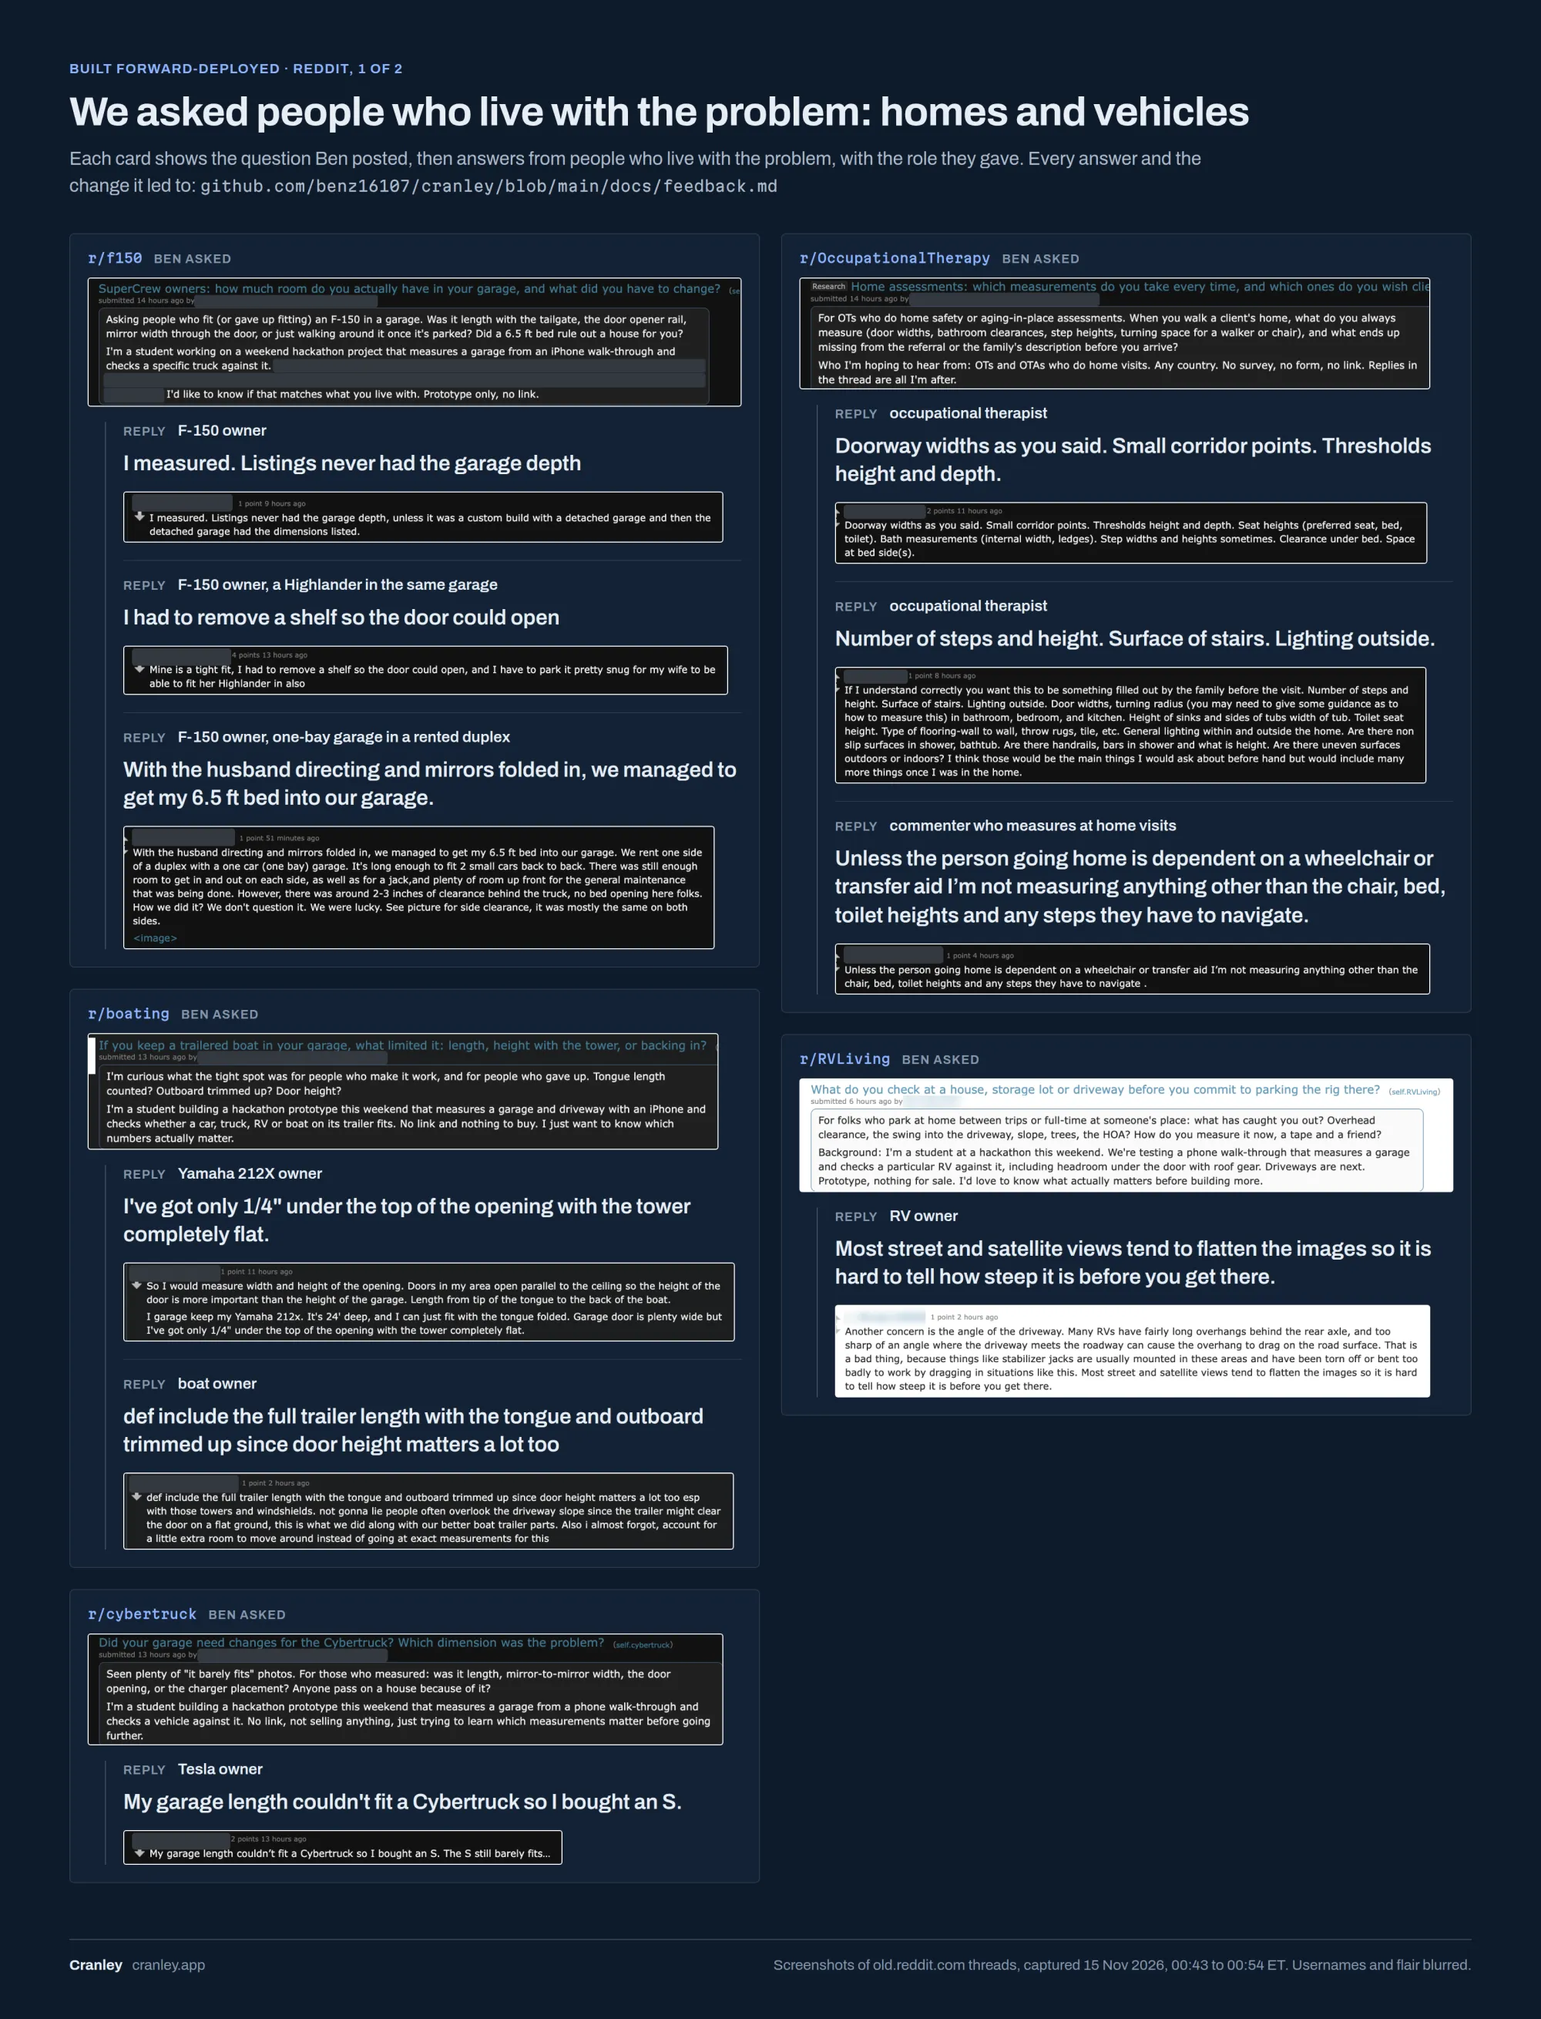
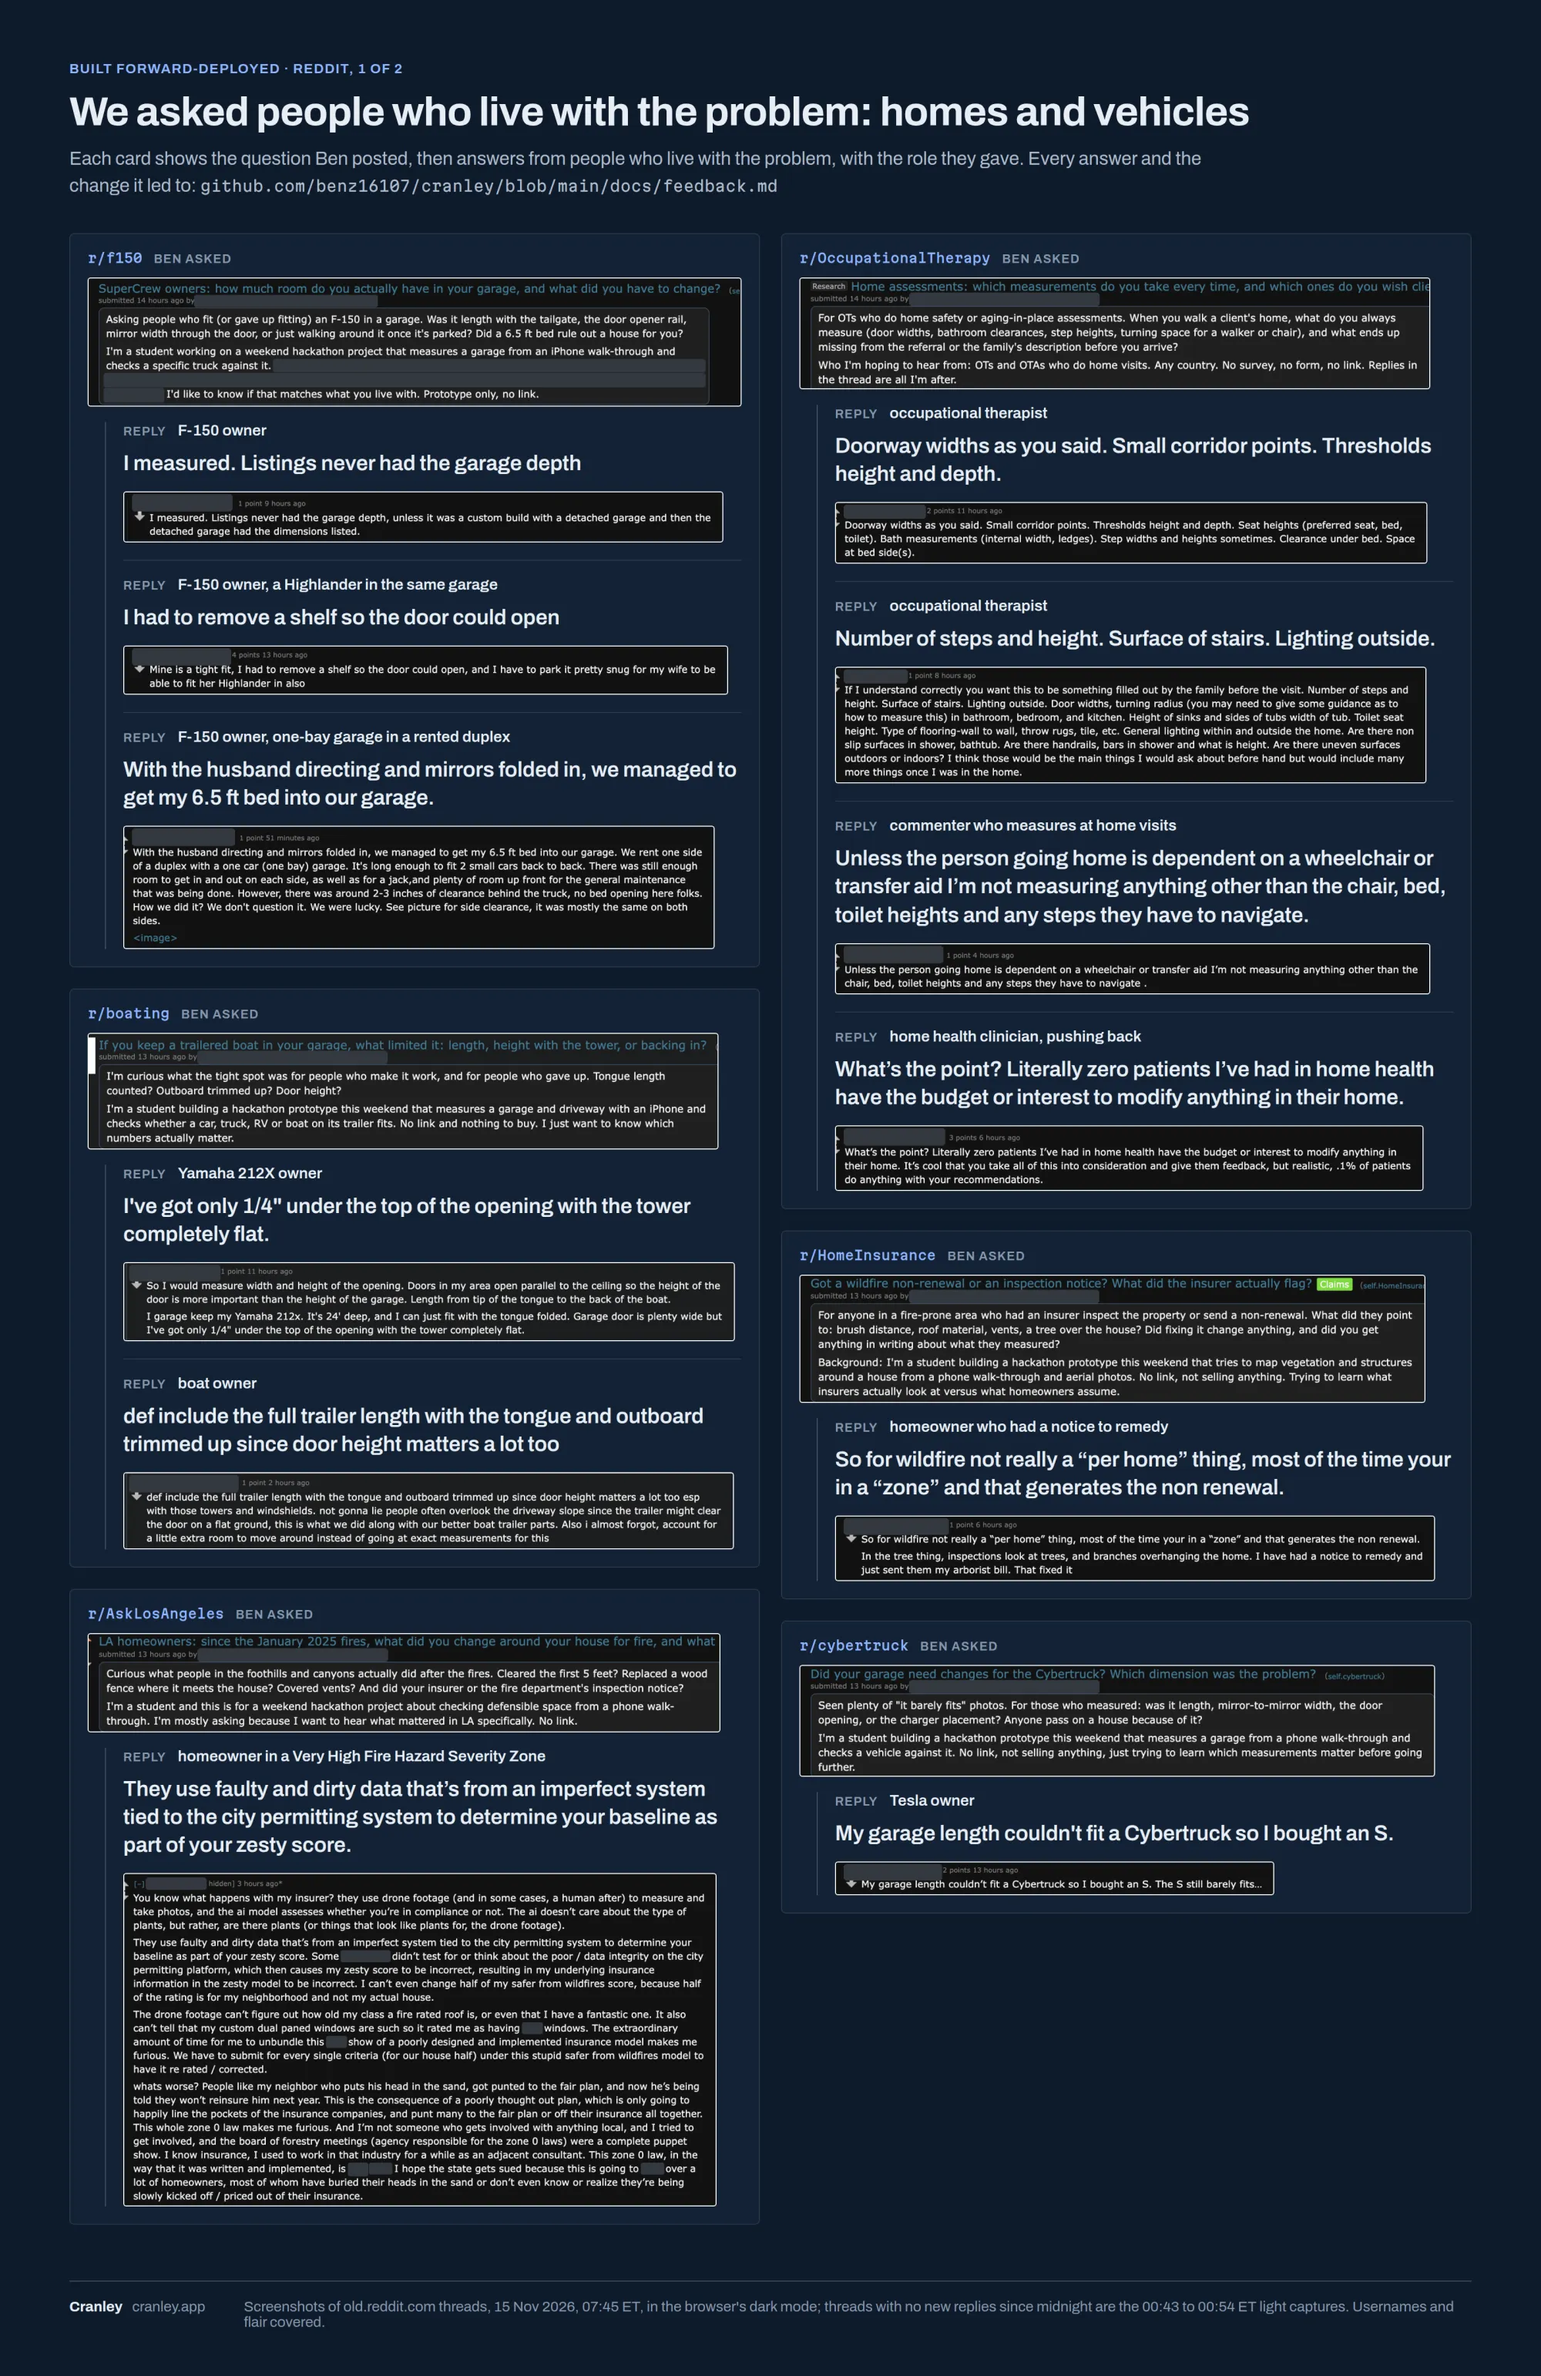
Site: the LangChain deep-dive video; five proof cards from the 9:05 am dark render, with the recounted outreach card and strong words in two replies covered

diff --git a/site/src/site/proof.ts b/site/src/site/proof.ts
@@ -11,28 +11,28 @@ export const INTERVIEW = {
   caption: 'The recorded call with Jean Ryan, President of Disabled In Action of Metropolitan New York, cut to the conversation: the emails that led to it, then each question and her answer. She agreed to be filmed and named.',
 }
 
-const BLURRED = 'Usernames are blurred.'
+const BLURRED = 'Usernames are covered.'
 export const PROOF = {
   'quote-to-change': { w: 2000, h: 1592,
     alt: 'Six things people told us, each beside the tool it changed and the commit: two quotes from the interview with Jean Ryan and four Reddit replies',
     caption: 'Six things we were told, each with the tool it changed and the commit. Names and usernames are blurred, except Jean Ryan, who agreed to be named.' },
-  'reddit-wall-2-workplaces': { w: 2000, h: 1937,
-    alt: 'Our questions in five Reddit communities for people who run stores, kitchens, restaurants, teams and emergency plans, with answers from each',
-    caption: `What we asked in five Reddit communities for people who run workplaces, and answers from each. ${BLURRED}` },
+  'reddit-wall-2-workplaces': { w: 2000, h: 1950,
+    alt: 'Our questions in Reddit communities for people who work in stores, restaurants and warehouses, with answers from each',
+    caption: `What we asked in Reddit communities for people who work in stores, restaurants and warehouses, and answers from each. ${BLURRED} A few strong words in the replies are covered too.` },
   'email-replies': { w: 2000, h: 3230,
     alt: 'The emails we sent and what came back: "Call me" from Jean Ryan, a museum director asking for a call, written answers from the managing director of a Los Angeles theatre and the artistic director of a Houston theatre company, and two declines',
     caption: 'The email we sent and each reply to it. Names, email addresses, signatures and the names of the organisations are covered, except Jean Ryan.' },
-  'outreach-at-a-glance': { w: 2000, h: 1328,
+  'outreach-at-a-glance': { w: 2000, h: 1365,
     alt: 'The outreach in numbers: the recorded interview, the people and communities who answered, the emails sent, the replies and the commits that followed',
     caption: 'The outreach, counted. It shows totals only: no names or usernames appear in it.' },
-  'amazon-occupational-therapists': { w: 2000, h: 1645,
+  'amazon-occupational-therapists': { w: 2000, h: 1665,
     alt: 'Our question to occupational therapists on Reddit, two therapists\' lists of what they check in a home, and the checks added to the tools from those lists',
     caption: `Two occupational therapists answered with what they check in a home, and their lists became checks in the tools. ${BLURRED}` },
-  'costar-garage-depth': { w: 2000, h: 1942,
+  'costar-garage-depth': { w: 2000, h: 1962,
     alt: 'Reddit answers from pickup and boat owners about garage depth, each beside the change it caused in the garage fit tool',
     caption: `Pickup and boat owners on garage depth, which listings leave out, each with the change it caused in the garage fit tool. ${BLURRED} One line of our own post, which gave a measured garage's size, is covered.` },
-  'reddit-wall-1-homes-and-vehicles': { w: 2000, h: 2619,
-    alt: 'Our questions in five Reddit communities about homes and vehicles, with answers from each and the role each person gave',
-    caption: `What we asked in five Reddit communities for pickup, boat and RV owners and occupational therapists, and answers from each. ${BLURRED} One line of our own post, which gave a measured garage's size, is covered.` },
+  'reddit-wall-1-homes-and-vehicles': { w: 2000, h: 3083,
+    alt: 'Our questions in Reddit communities about homes and vehicles, with answers from pickup and boat owners, occupational therapists and homeowners in wildfire zones, and the role each person gave',
+    caption: `What we asked in Reddit communities for pickup and boat owners, occupational therapists and homeowners in wildfire zones, and answers from each. ${BLURRED} One line of our own post, which gave a measured garage's size, is covered, and so are a few strong words in the replies.` },
 } as const
 export type ProofId = keyof typeof PROOF

diff --git a/site/src/site/tracks.ts b/site/src/site/tracks.ts
@@ -28,7 +28,7 @@ export const TRACKS: Track[] = [
     slug: 'langchain', name: 'LangChain', prize: 'Best use of deepagents',
     summary: 'Planning, parallel subagents shown live, human approval that resumes from a MongoDB checkpoint, skills, memory, a rubric grader and LangSmith experiments.',
     docs: [['The agent', '/docs/concepts/agent/'], ['Sponsor integrations', '/docs/sponsor-integrations/#langchain-deepagents-langgraph-and-langsmith'], ['MCP server and CLI', '/docs/mcp/'], ['Agent and workspace API', '/docs/reference/api/agent/']],
-    slots: ['agent-lanes', 'langsmith-trace'],
+    slots: ['agent-lanes', 'langsmith-trace'], video: 'SlK6NYPWnkI',
   },
   {
     slug: 'photon', name: 'Photon', prize: 'Build a Messaging Agent using Photon 2.0',
